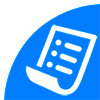
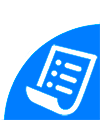
MaxiPosta: Se modificaron imagenes de la cerveza, se agrega el boton para chequear el pedido, se modifica tamaño y distancia de etiqueta "boton"

diff --git a/public/css/main.css b/public/css/main.css
@@ -167,7 +167,7 @@ button{
 
 .loPedido {
     width: 100px;
-    height: 100px;
+    height: 120px;
     z-index: 2002;
     position: absolute;
     bottom: 0;

diff --git a/public/index.php b/public/index.php
@@ -17,9 +17,9 @@
         </div>
         <div id="cuerpo">
             <div class="form_container">
-                <button class="loPedido" id="mostrar">
-                    <p>tu pedido</p>
-                </button>
+                <div class="loPedido" id="mostrar">
+                    <img src="img/pedido.png">
+                </div>
                 <div class="slideContainer">
                     
                 </div>
